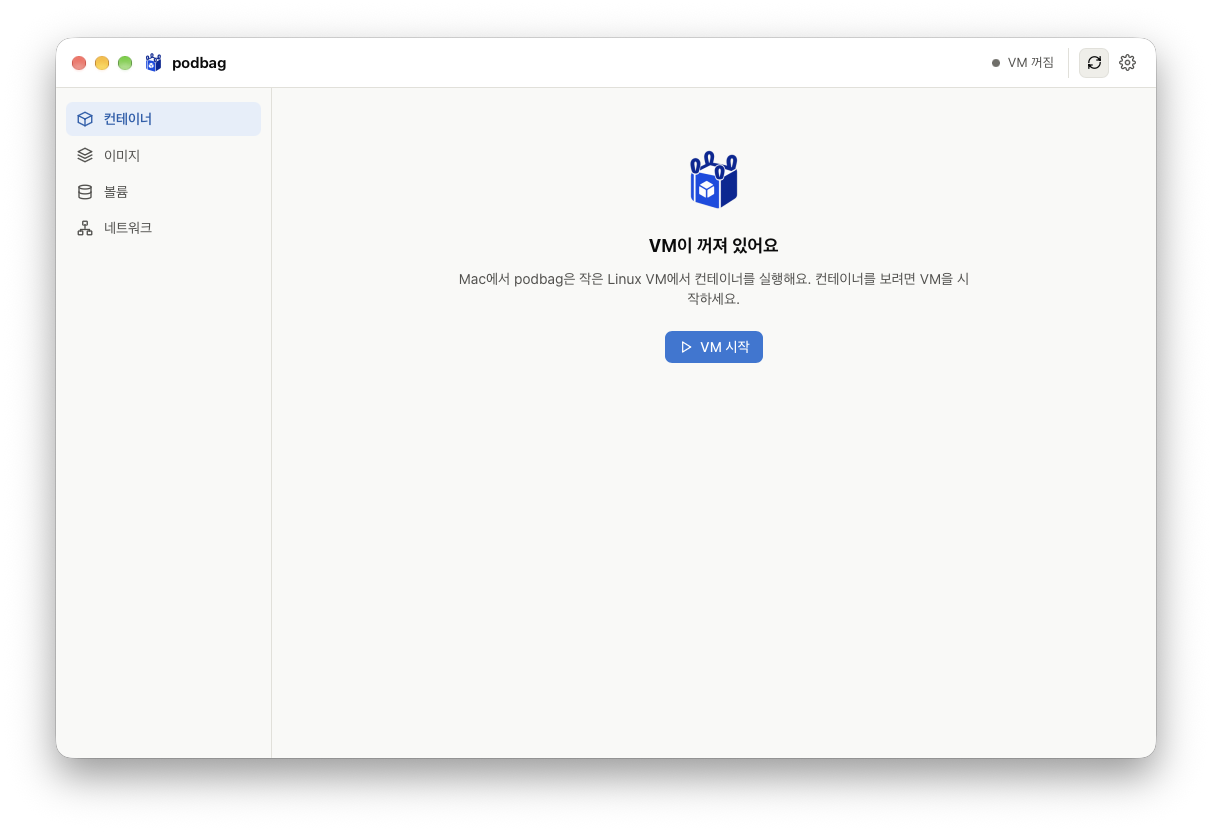
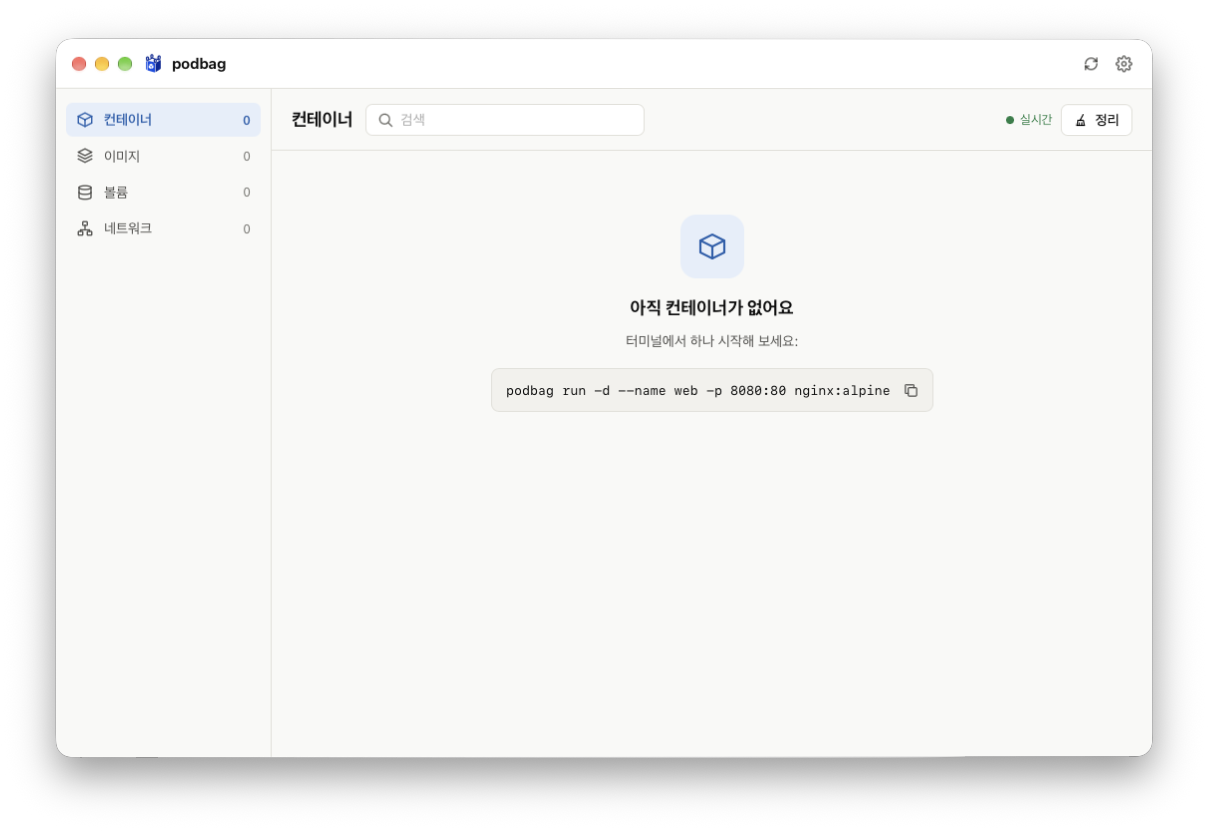
fix: remove the VM status from the macOS window toolbar

diff --git a/desktop/ui/app.js b/desktop/ui/app.js
@@ -344,7 +344,8 @@ const windowBar = window.podbagWindowToolbar && document.getElementById("window-
 function setupWindowBar() {
   if (!windowBar) return;
   const actions = document.getElementById("window-actions");
-  windowBar.prepend(document.querySelector(".brand"), document.getElementById("engine"));
+  windowBar.prepend(document.querySelector(".brand"));
+  document.getElementById("engine").remove();
   const reload = iconButton("refresh", "", () => S.engine?.reachable ? refresh() : connect(false));
   const settings = iconButton("settings", "", () => go("settings"));
   actions.append(reload, settings);
@@ -411,8 +412,9 @@ function engineState() {
 }
 
 function renderEngine() {
-  const [cls, text] = engineState();
   const el = document.getElementById("engine");
+  if (!el) return;
+  const [cls, text] = engineState();
   el.className = `engine engine-${cls}`;
   el.title = (S.engine && (S.engine.version || S.engine.error)) || "";
   el.replaceChildren(h("span", { class: "dot", "aria-hidden": "true" }), h("span", { text }));

diff --git a/desktop/ui/style.css b/desktop/ui/style.css
@@ -114,8 +114,7 @@ body {
 #window-bar:not([hidden]) + .app { height: calc(100% - 50px); }
 #window-bar .brand { gap: 7px; padding: 0; font-size: 15px; font-weight: 650; }
 #window-bar .brand img { width: 23px; height: 23px; }
-#window-bar .engine { margin: 0 0 0 auto; padding: 0; border: 0; }
-#window-actions { display: flex; gap: 3px; padding-left: 10px; border-left: 1px solid var(--line); }
+#window-actions { display: flex; gap: 3px; margin-inline-start: auto; }
 #window-actions [aria-current="page"] { background: var(--accent-soft); color: var(--accent-text); }
 
 .app { display: grid; grid-template-columns: 216px minmax(0, 1fr); height: 100vh; }

diff --git a/docs/usage.md b/docs/usage.md
@@ -600,10 +600,10 @@ docker compose build --builder podbag
 ### podbag-desktop
 
 - A window with Containers, Images, Volumes, Networks and Settings.
-- On macOS, the window toolbar shows the engine status beside Refresh and Settings.
-  Drag the space between the title and the status to move the window.
+- On macOS, the window toolbar has Refresh and Settings on the right.
+  Drag the space between the title and the buttons to move the window.
 
-  ![The macOS window with the podbag title, engine status, Refresh and Settings in one row](images/macos-window-toolbar.png)
+  ![The macOS window with the podbag title, Refresh and Settings in one row](images/macos-window-toolbar.png)
 - Each list has a search box, and the same actions as the TUI.
 - A container's page has its details, its logs (as they come) and all its data.
 - With no containers, the window shows how to start one.
